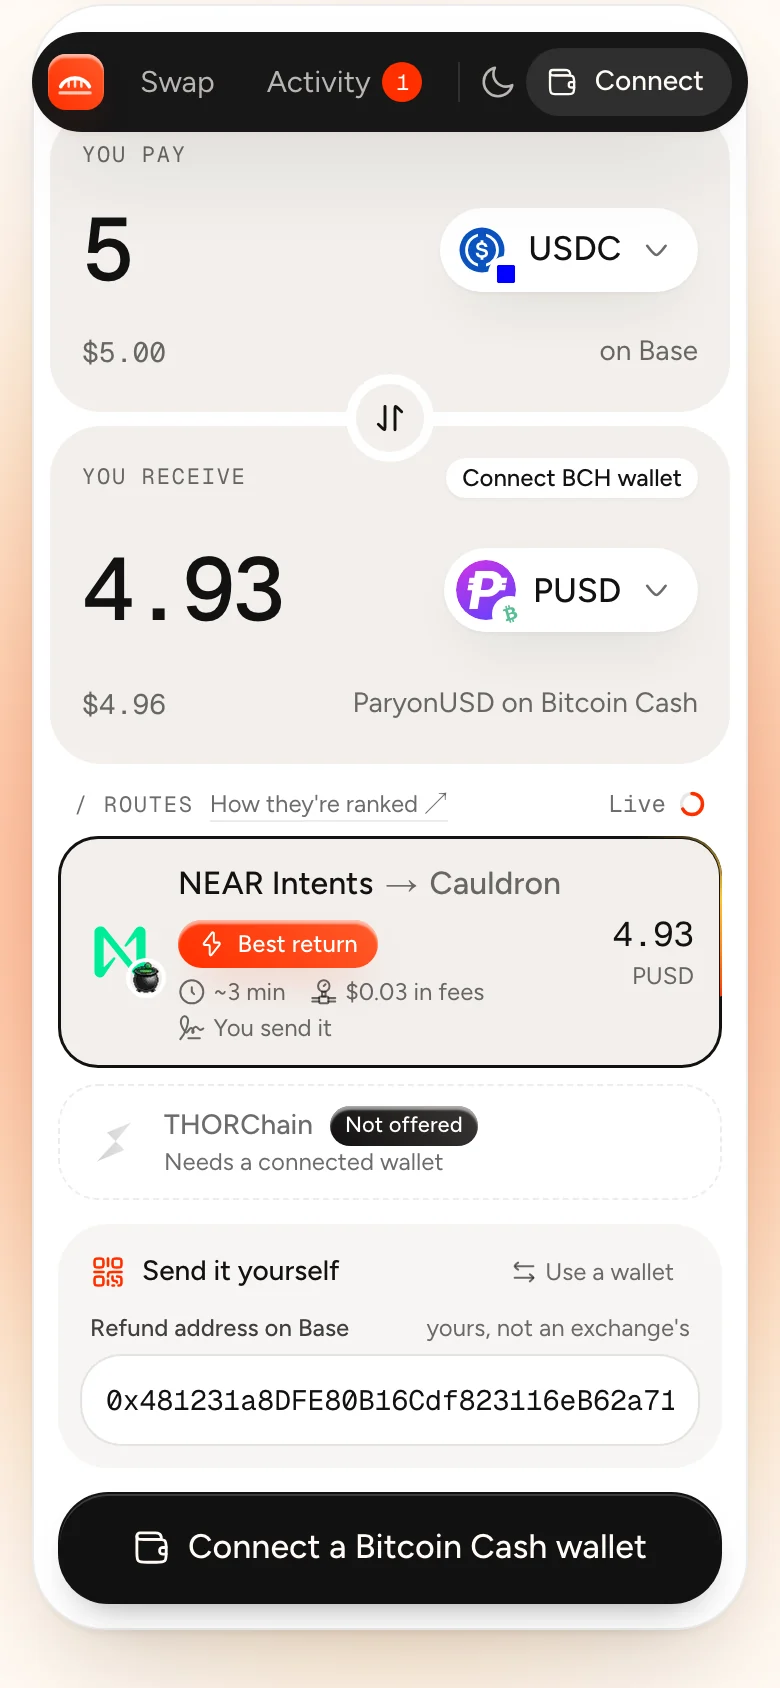
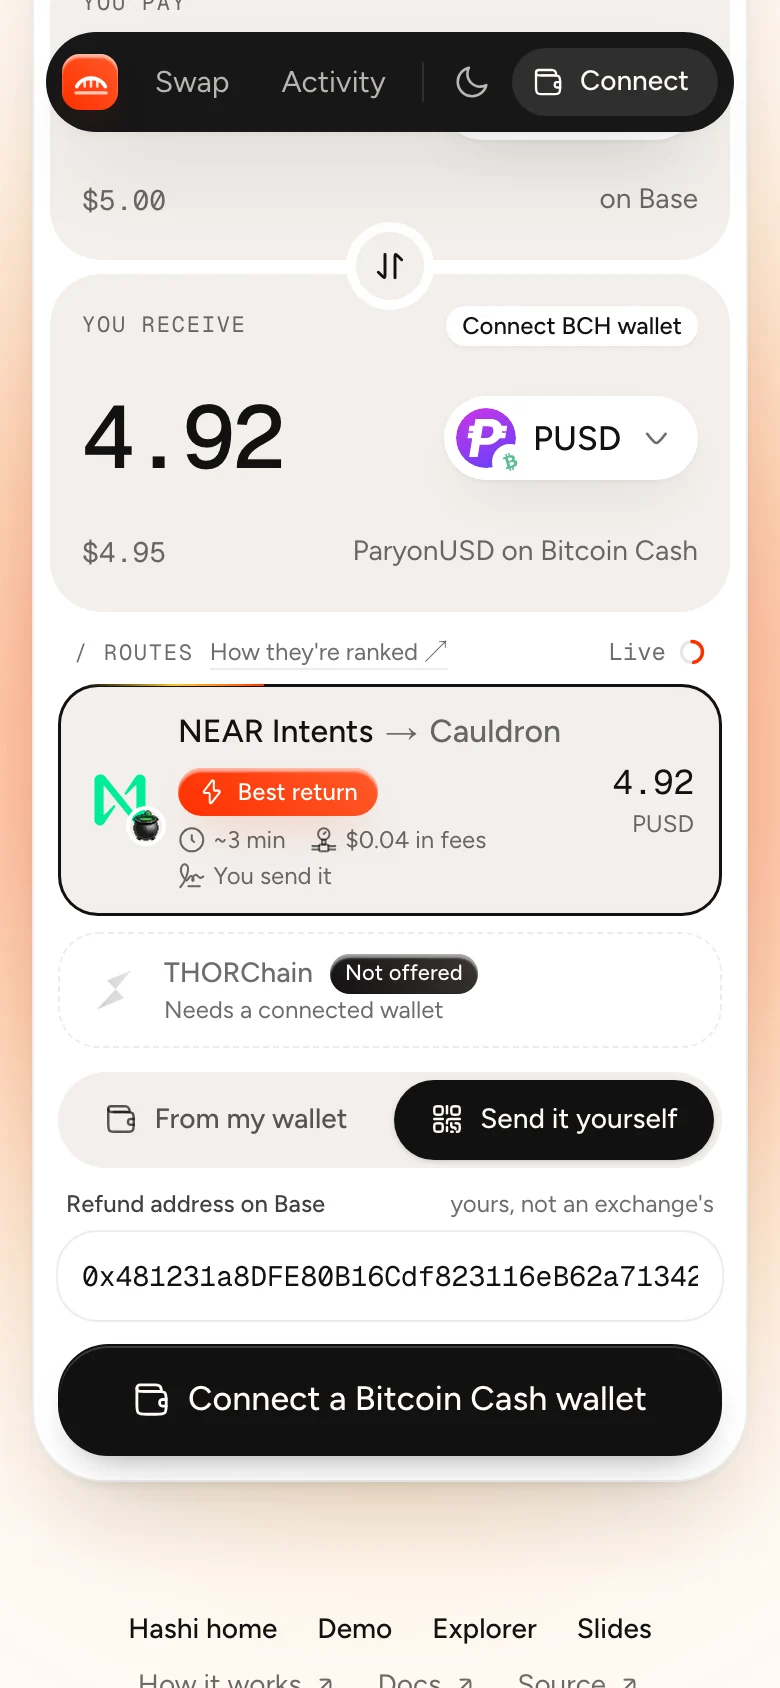
Docs: the two-way switch on the card, both ways: Send it yourself going in, and To an address coming out (any wallet or exchange on that chain, since NEAR Intents pays out with a plain token transfer), with fresh captures from hashi.cash; the README says the dollars can land at any address

diff --git a/README.md b/README.md
@@ -190,7 +190,7 @@ Also checked:
 
 - **Swaps that stay on Bitcoin Cash**: PUSD ⇄ MUSD ⇄ BCH on Cauldron, one approval, about 15 seconds ([guide](https://docs.hashi.cash/docs/guide/on-bitcoin-cash)).
 - **Tracker and Activity**: every swap step by step across both chains, with explorer links, saved in your browser. While a bridge works, a live panel counts Bitcoin Cash blocks and shows the bridge's own countdown. A closed tab resumes where it stopped ([guide](https://docs.hashi.cash/docs/guide/tracking)).
-- **Send it yourself**: pay from an exchange or any wallet, no connection. Hashi shows NEAR Intents' deposit address, the amount and a payment QR that fills in the coin, network and amount, then watches for the deposit ([guide](https://docs.hashi.cash/docs/guide/send-it-yourself)).
+- **Send it yourself**: pay from an exchange or any wallet, no connection. Hashi shows NEAR Intents' deposit address, the amount and a payment QR that fills in the coin, network and amount, then watches for the deposit. Coming out, the dollars can land at any address, an exchange's included ([guide](https://docs.hashi.cash/docs/guide/send-it-yourself)).
 - **Gasless USDC on Base**: sign an authorisation and Hashi's relayer pays the gas ([guide](https://docs.hashi.cash/docs/guide/gasless)).
 - **Services checked live**: NEAR Intents, THORChain's pauses per chain, the Cauldron Router and the Bitcoin Cash network, in the swap card's status ([guide](https://docs.hashi.cash/docs/guide/swap-screen)).
 - **Settings**: slippage, and a different recipient with guards against token contracts and the wrong chain ([guide](https://docs.hashi.cash/docs/guide/settings)).
